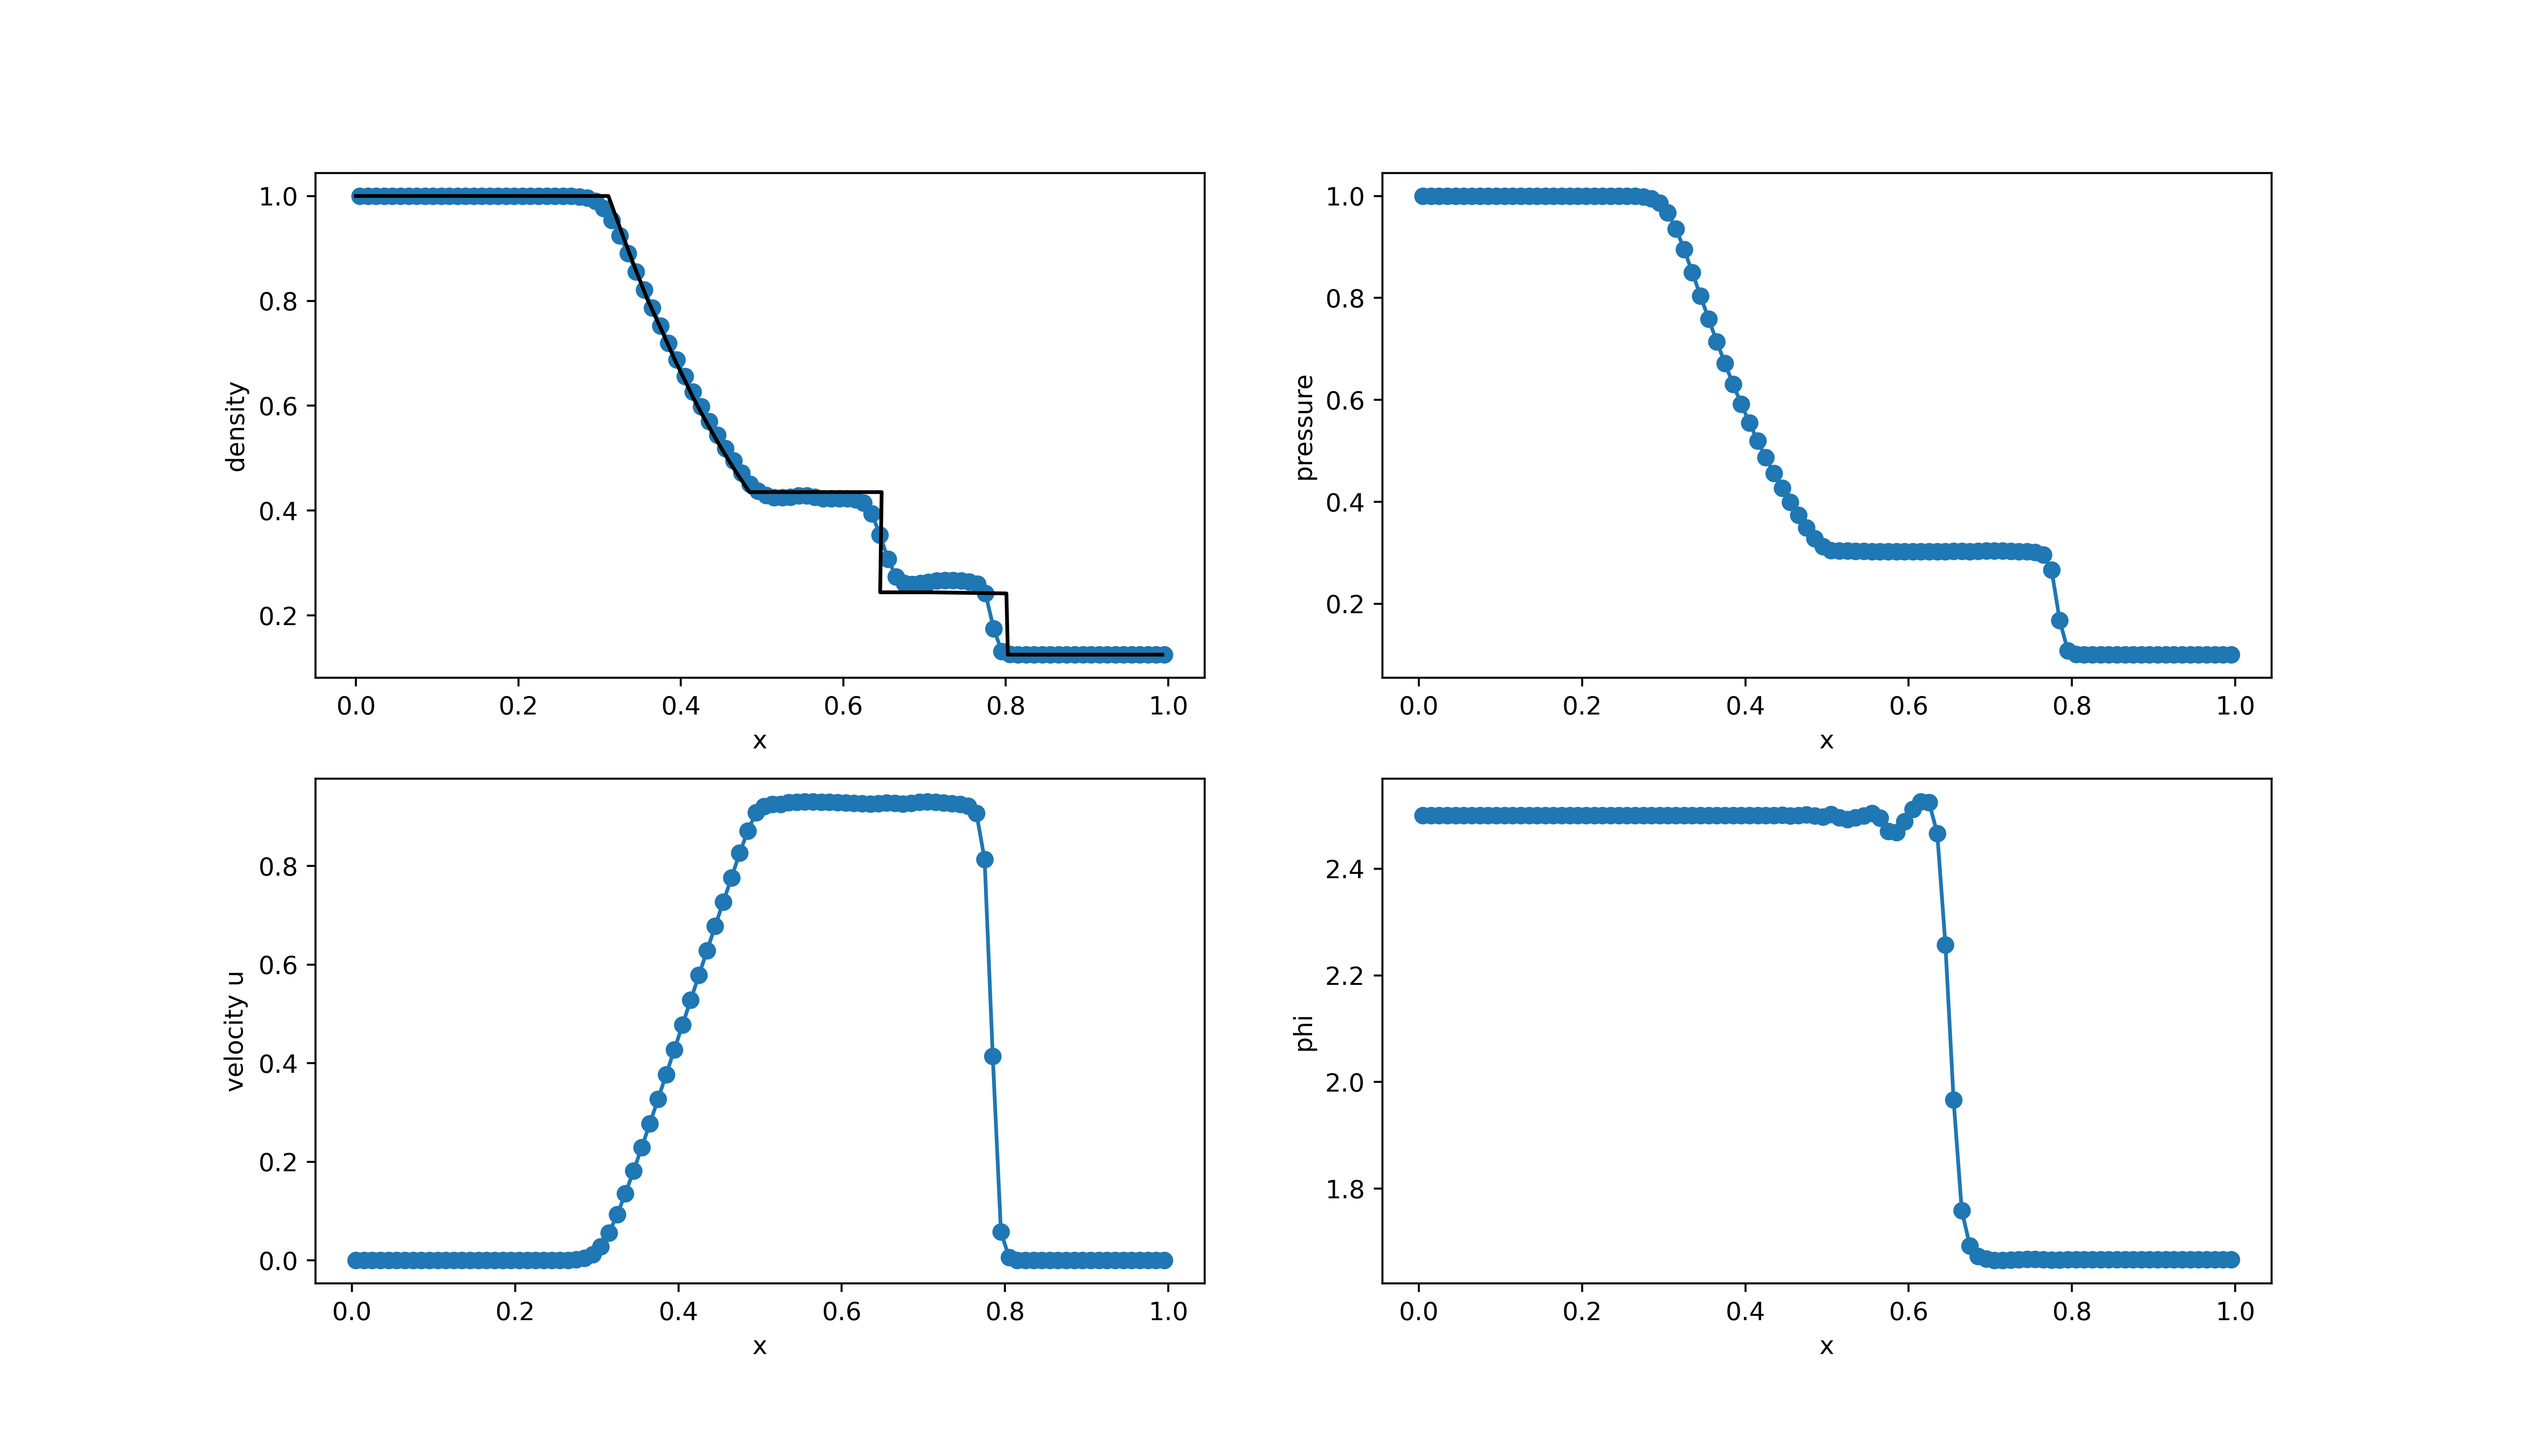
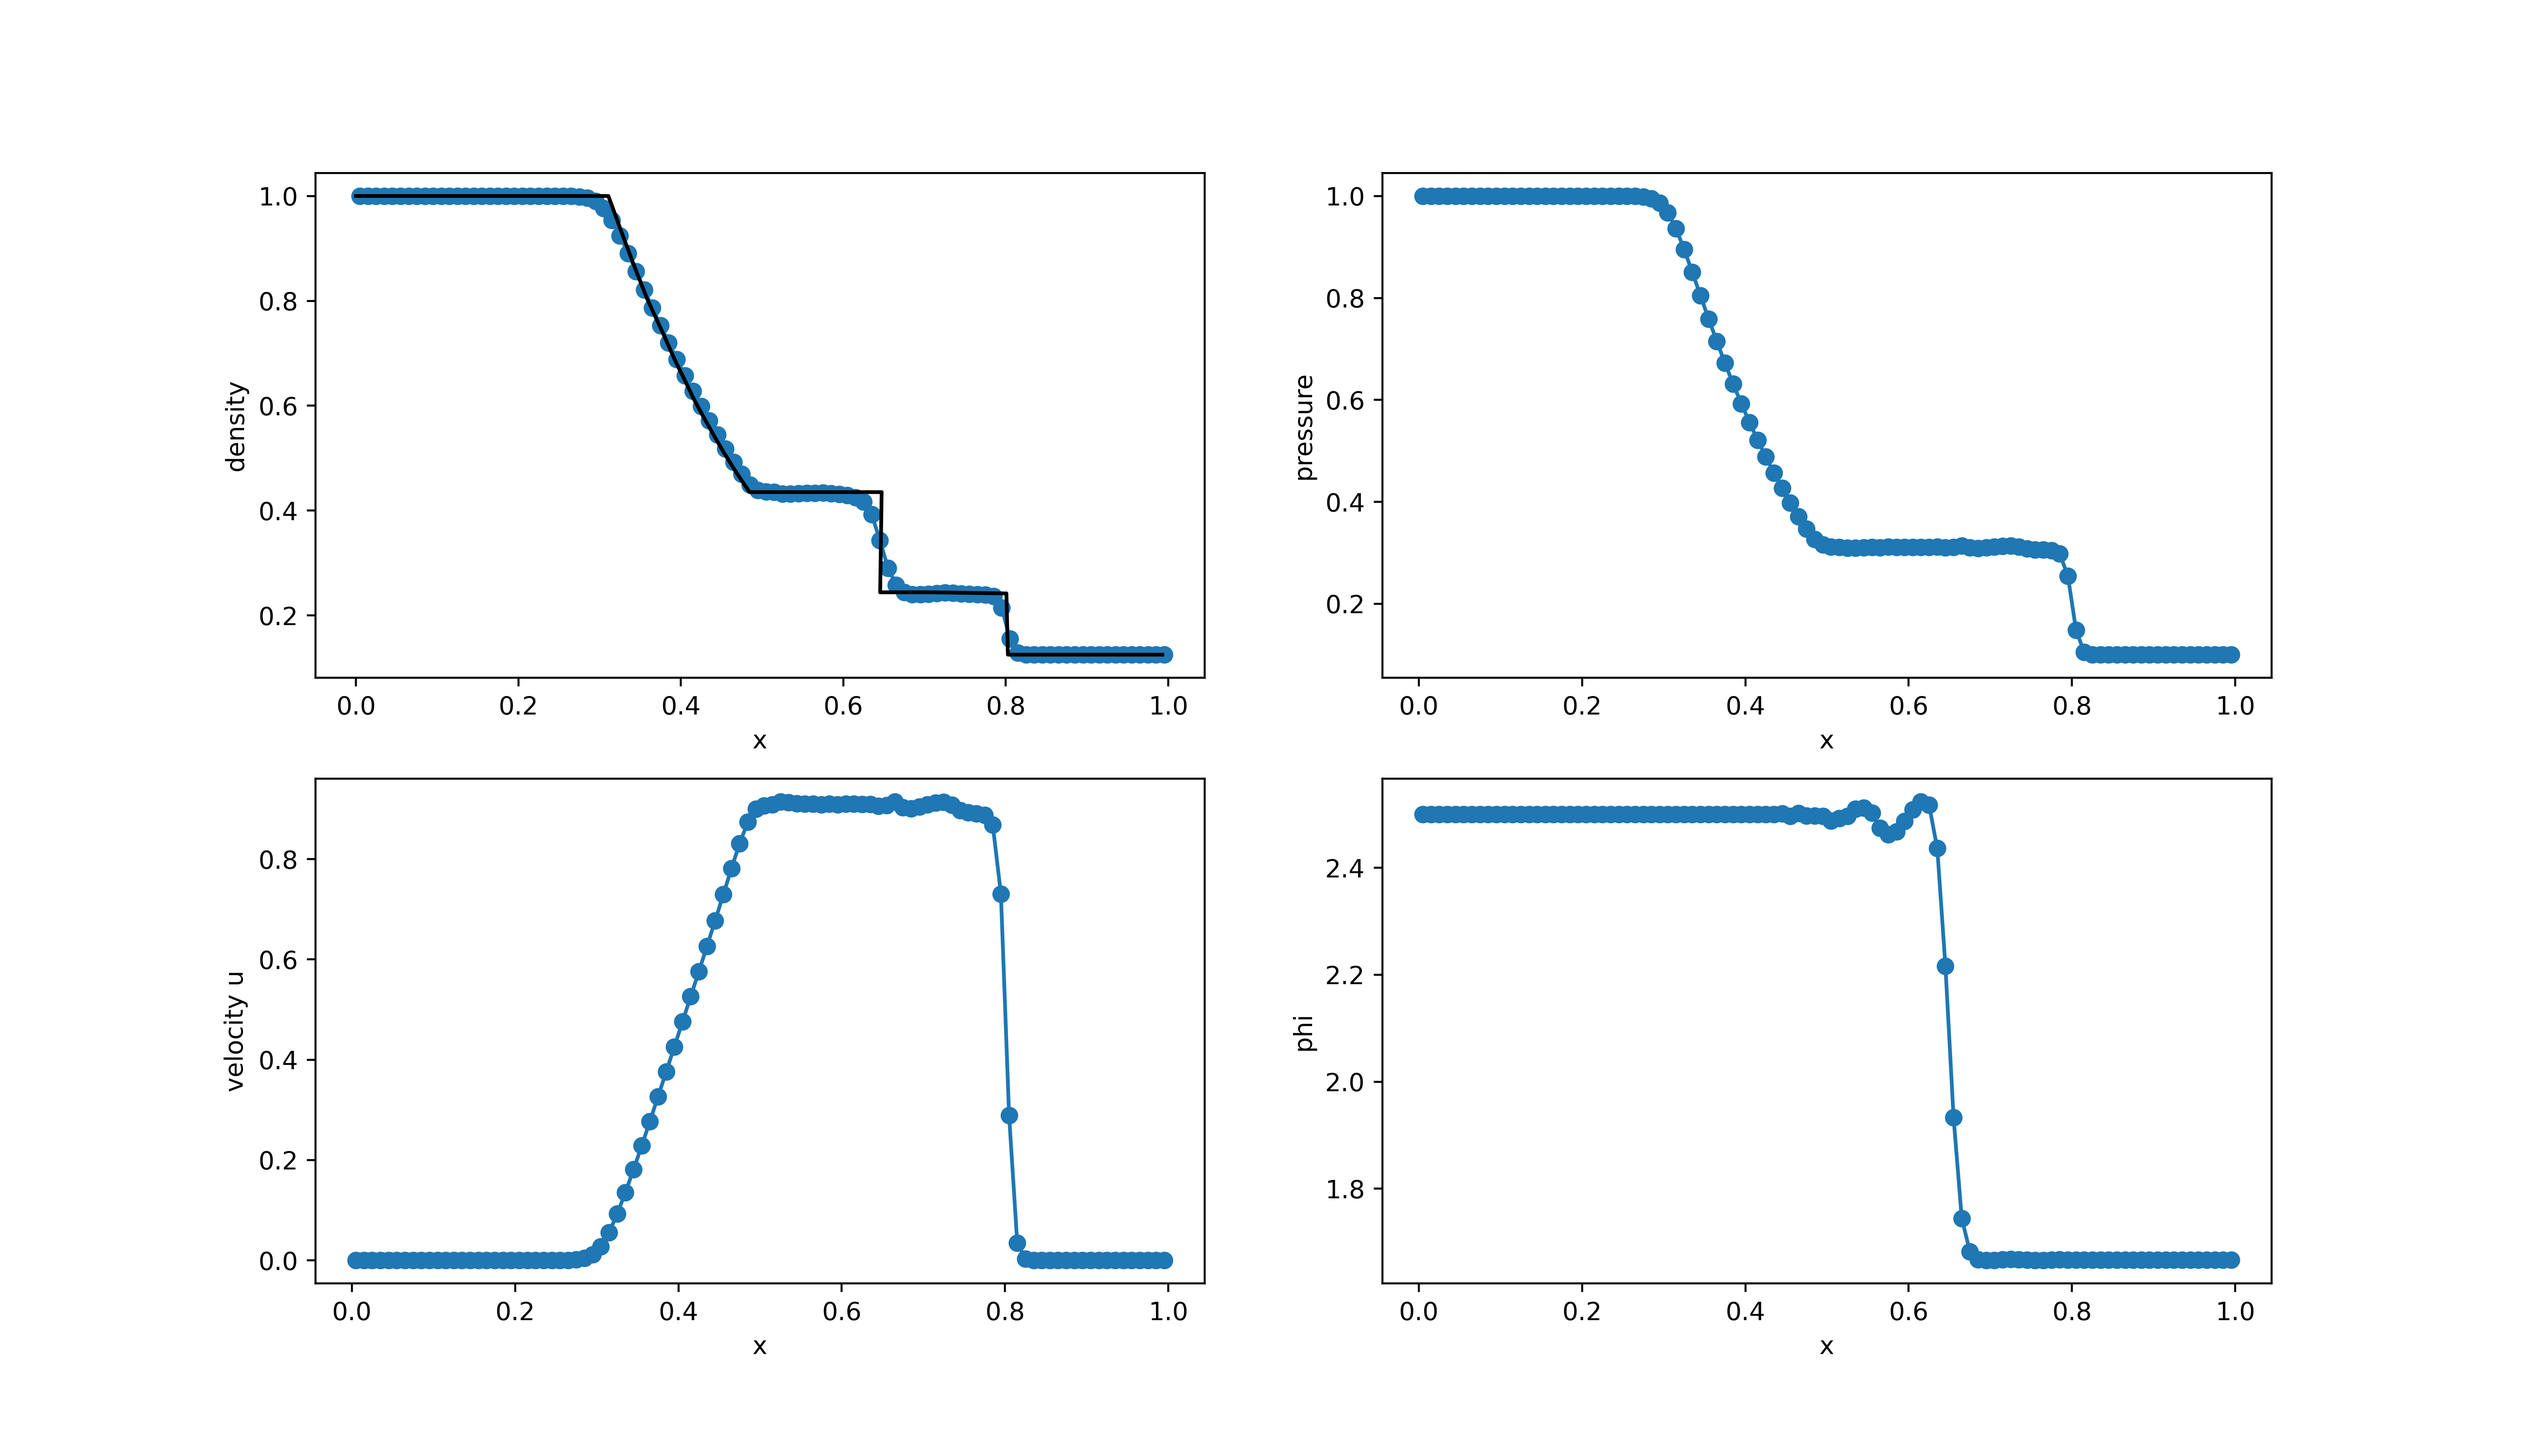
rp cases updated

diff --git a/python/caseRP.py b/python/caseRP.py
@@ -1,0 +1,293 @@
+#!/usr/bin/env python
+# coding: utf-8
+
+# ## Configuration of a simulation case (*caseShockBub*)
+# 
+# ### Importing required libraries
+# 
+# Some of these are well known libraries such as *numpy* and *matplotlib* (they can be installed using pip). We also need to import the library *utils* containing predefined functionalities for this software. 
+
+# In[14]:
+
+
+import os
+import math                    
+import numpy as np             
+import matplotlib.pyplot as plt 
+import re
+from glob import glob
+from utils import modify_header_file,write_config,write_initial,write_equilibrium,backup_file,restore_file,compile_program,run_program,initialize_variables,read_data_euler
+import imageio
+
+
+# ### Setting up the paths
+# 
+# First, the name of the folder for this test case must be specified:
+
+# In[15]:
+
+
+#This test case will run in the folder "caseShockBub/". 
+#Don't forget the bar (/). 
+#This directory should have been created prior to the execution to this script, and should also contain an /out folder inside
+folder_case="caseRP/" 
+
+
+# Then, all the paths are automatically assigned:
+
+# In[16]:
+
+
+#Do not modify the folders and paths below
+script_dir = os.path.dirname(os.path.abspath(__file__))
+folder_out="out/"
+folder_lib="lib"
+folder_exact="autotest/caseRPs/exact/"
+fname_config="configure.input"
+fname_ini="initial.out"
+folder_out = os.path.join(script_dir, "../"+folder_case+"/"+folder_out)
+folder_case = os.path.join(script_dir, "../"+folder_case)
+folder_lib = os.path.join(script_dir, "../"+folder_lib)
+folder_exact = os.path.join(script_dir, "../"+folder_exact)
+folder_exe = os.path.join(script_dir, "../")
+
+os.makedirs(folder_case, exist_ok=True)
+os.makedirs(folder_out, exist_ok=True)
+
+for f in glob(folder_out + "/*.out") + glob(folder_out + "/*.vtk") + glob(folder_out + "/*.png"):
+    os.remove(f) 
+# ### Setting up the compilation variables (*definitions.h*)
+# 
+# Here, we can modify those variables that need to be set before compilation and are found in the file *definitions.h*. Don't worry if you mess up things here, a backup of the original file is created before modification and will be restored at the end of this script, after compilation and execution.
+
+# In[17]:
+
+
+#Do not change the line below, it creates a backup of the definitions.h file
+backup_file(folder_lib+'/definitions.h')
+#Configure the header file for compilation. Add as many lines as desired for the macros you want to modify.
+modify_header_file(folder_lib+'/definitions.h', 'NTHREADS', 4)         #number of threads
+modify_header_file(folder_lib+'/definitions.h', 'TYPE_REC', 0)
+modify_header_file(folder_lib+'/definitions.h', 'EQUATION_SYSTEM', 2)  #System of equations solved
+modify_header_file(folder_lib+'/definitions.h', 'ST', 0)               #Source term type
+modify_header_file(folder_lib+'/definitions.h', 'SOLVER', 0)           #Riemann solver used
+modify_header_file(folder_lib+'/definitions.h', 'READ_INITIAL', 1)     #Read or not initial data, this should ALWAYS be 1    
+
+# ### Configure the global simulation parameters
+# 
+# We can set the global simulation parameters as desired:
+
+# In[18]:
+
+
+#Simulation setup
+DumpTime = 0.5
+CFL = 0.4
+Order = 5
+
+#Mesh setup
+xcells = 100
+ycells = 1
+zcells = 1
+SizeX = 1.0
+SizeY = 1.0
+SizeZ = 1.0
+
+#Boundary conditions
+Face_1 = 3 #-y
+Face_2 = 3 #+x
+Face_3 = 3 #+y
+Face_4 = 3 #-x
+Face_5 = 3 #-z
+Face_6 = 3 #+z
+
+#Linear transport, only if applicable
+u_x = 1.0
+u_y = 1.0
+u_z = 1.0
+
+
+# ### Define the initial condition
+# 
+# To define the initial condition we first need to create the arrays and initialize some variables:
+
+# In[19]:
+
+
+xc, yc, zc, u, v, w, rho, p, phi, ue, ve, we, rhoe, pe = initialize_variables(xcells, ycells, zcells, SizeX, SizeY, SizeZ)
+
+
+# Among these, we have:
+# - the problem variables: ```u, v, w, rho, p, phi```
+# - the equilibrium variables (for atmospheric cases): ```ue, ve, we, rhoe, pe```
+# 
+# Then we can set the initial condition using those variables. To do this, we loop over the three cartesian indexes $(l,m,n)$ and assign the variables, e.g. $\rho(x_l,y_m,z_n)=...$ is set as ```rho[l,m,n]=...```. Cell centers are given by: ```xc[l,m,n]```, ```yc[l,m,n]``` and ```zc[l,m,n]```.
+
+# In[20]:
+
+case = 4
+
+if case==1: #RP1 Steady
+    FinalTime = 0.011
+    for l in range(0,xcells): 
+        if (xc[l,:,:]<0.5):
+            rho[l,:,:]=1.0
+            p  [l,:,:]=1.0
+            u  [l,:,:]=0.0
+            phi[l,:,:]=1.0
+        else:
+            rho[l,:,:]=1.0
+            p  [l,:,:]=1.0
+            u  [l,:,:]=0.0
+            phi[l,:,:]=0.0 
+
+
+if case==2: #RP2 Sod shock
+    FinalTime = 0.2
+    DumpTime = 0.01
+    for l in range(0,xcells): 
+        if (xc[l,:,:]<0.5):
+            rho[l,:,:]=1.0
+            p  [l,:,:]=1.0
+            u  [l,:,:]=0.0
+            phi[l,:,:]=1/(1.6-1) 
+        else:
+            rho[l,:,:]=0.125
+            p  [l,:,:]=0.1
+            u  [l,:,:]=0.0
+            phi[l,:,:]=1/(1.2-1)
+    exactS  = np.loadtxt(folder_exact+"RP1.txt") 
+    
+if case==3: #RP3
+    FinalTime = 0.035
+    DumpTime = 0.002
+    for l in range(0,xcells): 
+        if (xc[l,:,:]<0.4):
+            rho[l,:,:]=5.99924
+            p  [l,:,:]=460.894
+            u  [l,:,:]=19.5975
+            phi[l,:,:]=1.0
+        else:
+            rho[l,:,:]=5.99242
+            p  [l,:,:]=46.0950
+            u  [l,:,:]=-6.19633
+            phi[l,:,:]=0.0
+    exactS  = np.loadtxt(folder_exact+"RP3.txt")  
+    
+if case==4: #RP4
+    modify_header_file(folder_lib+'/definitions.h', 'MULTICOMPONENT', 1)
+    FinalTime = 0.16
+    DumpTime = 0.01
+    for l in range(0,xcells): 
+        if (xc[l,:,:]<0.5):
+            rho[l,:,:]=1.0
+            p  [l,:,:]=1.0
+            u  [l,:,:]=0.0
+            phi[l,:,:]=1/(1.4-1) #1/(gamma-1) for gamma formulation
+        else:
+            rho[l,:,:]=0.125
+            p  [l,:,:]=0.1
+            u  [l,:,:]=0.0
+            phi[l,:,:]=1/(1.6-1)
+    exactSm = np.loadtxt(folder_exact+"RP1_multi.txt")   
+    
+    
+if case==5: #RP5 
+    FinalTime = 0.011
+    DumpTime = 0.001
+    for l in range(0,xcells): 
+        if (xc[l,:,:]<0.5):
+            rho[l,:,:]=1.0
+            p  [l,:,:]=1000.0
+            u  [l,:,:]=0.0
+            phi[l,:,:]=1.0
+        else:
+            rho[l,:,:]=1.0
+            p  [l,:,:]=0.01
+            u  [l,:,:]=0.0
+            phi[l,:,:]=0.0
+    exactS  = np.loadtxt(folder_exact+"RP2.txt")  
+
+
+# Now, the configuration and initial condition (and equilibrium) files are written: 
+
+# In[21]:
+
+
+write_config(folder_case, fname_config, FinalTime, DumpTime, CFL, Order, xcells, ycells, zcells, SizeX, SizeY, SizeZ, Face_1, Face_2, Face_3, Face_4, Face_5, Face_6, u_x, u_y, u_z)      
+write_initial(folder_case, fname_ini, xcells, ycells, zcells, xc, yc, zc, u, v, w, rho, p, phi)
+
+
+# ### Compilation and execution
+# 
+# The program is compiled and executed:
+
+# In[22]:
+
+
+compile_program()
+print("Program is running...")
+run_program(folder_exe+"./exehow3d "+folder_case)
+restore_file(folder_lib+'/definitions.h')
+
+
+# ### Reading data and plotting
+# 
+# To read data, we use the function ```read_data_euler()``` which gives as output the numerical solution for all time levels, e.g.  $\rho(x_l,y_m,z_n,t_j)$ is ```rho[l,m,n,j]```, where ```j``` is the time level.
+# 
+# This can be customized for each particular case. 
+
+# In[23]:
+
+
+files = sorted(glob(folder_out + "/*.out"), key=lambda x: int(re.findall(r'\d+', os.path.basename(x))[0]))
+lf = len(files)
+lf=len(files)
+print(files)
+
+gamma=1.4
+j=0
+print("Printing figures in folder"+folder_out)
+
+images = []  # List to hold all the images for the GIF
+
+for fname in files:
+    
+    u, v, w, rho, p, phi, theta, E = read_data_euler(fname, xcells, ycells, zcells, lf, gamma, j)
+                  
+    filename = fname+"_RP"+str(case)
+    
+    fig, ax  = plt.subplots(2,2,figsize=(14, 8))
+    ax[0,0].plot(xc[:,0,0],rho[:,0,0,j],'o-')
+    if 'exactS' in locals():
+        ax[0,0].plot(exactS[:,0],exactS[:,1],'k-') 
+    if 'exactSm' in locals():
+        ax[0,0].plot(exactSm[:,0],exactSm[:,1],'k-') 
+    ax[0,0].set_xlabel("x") 
+    ax[0,0].set_ylabel("density") 
+
+    ax[0,1].plot(xc[:,0,0],p[:,0,0,j],'o-')
+    if 'exactS' in locals():
+        ax[0,1].plot(exactS[:,0],exactS[:,2],'k-') 
+    ax[0,1].set_xlabel("x") 
+    ax[0,1].set_ylabel("pressure") 
+
+    ax[1,0].plot(xc[:,0,0],u[:,0,0,j],'o-') 
+    if 'exactS' in locals():
+        ax[1,0].plot(exactS[:,0],exactS[:,3],'k-') 
+    ax[1,0].set_xlabel("x") 
+    ax[1,0].set_ylabel("velocity u") 
+
+    ax[1,1].plot(xc[:,0,0],phi[:,0,0,j],'o-') 
+    ax[1,1].set_xlabel("x") 
+    ax[1,1].set_ylabel("phi")  
+    
+    image_path = filename + ".png"
+    fig.savefig(image_path,dpi=200)
+    images.append(imageio.imread(image_path)) 
+    
+    j=j+1
+         
+
+gif_path = os.path.join(folder_out, "animation.gif")
+imageio.mimsave(gif_path, images, duration=8, loop=0)  # Adjust the duration as needed

diff --git a/python/utils.py b/python/utils.py
@@ -317,7 +317,9 @@ def singleRP(case,ord):
     modify_header_file(folder_lib+'/definitions.h', 'ST', 0)
     modify_header_file(folder_lib+'/definitions.h', 'SOLVER', 0)
     modify_header_file(folder_lib+'/definitions.h', 'READ_INITIAL', 1)
-
+    if case==4: 
+        modify_header_file(folder_lib+'/definitions.h', 'MULTICOMPONENT', 1)
+        
     # COMPILING
 
     compile_program()
